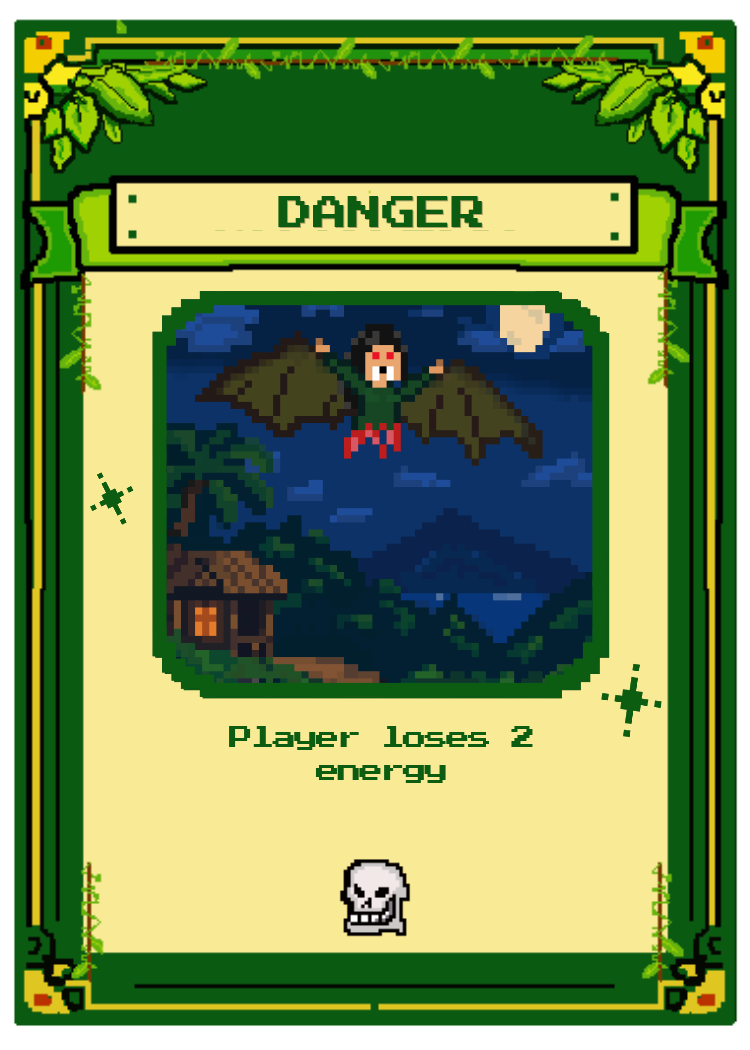
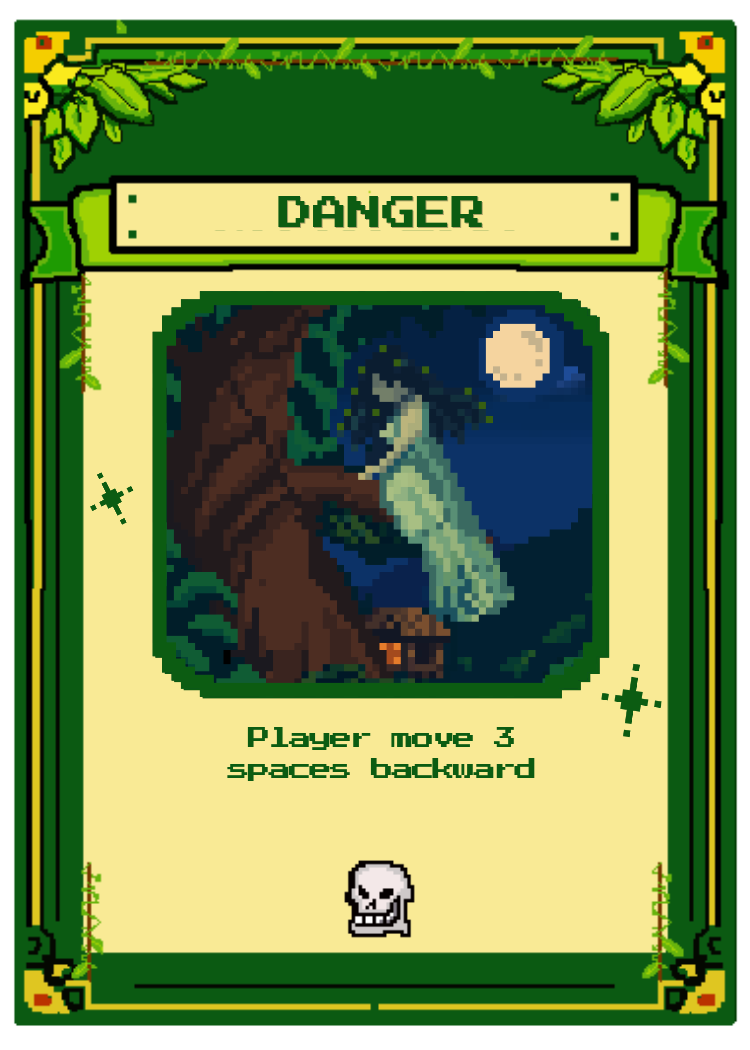
updated card assets to the game

Changed region(s): [[0.2147, 0.2743, 0.7973, 0.7619], [0.46, 0.7924, 0.552, 0.9143]]

diff --git a/panahon-game/src/gameData.js b/panahon-game/src/gameData.js
@@ -705,7 +705,7 @@ export const EVENT_CARDS = {
       name: 'Temporal Occurrence!',
       description: 'For the next 2 turns, players draw from any era randomly on Clue, Event, or Danger tiles.',
       era: ERAS.AMERICAN,
-      image: 'assets/Cards/Event Cards/10.png',
+      image: 'assets/Cards/Event Cards/5.png',
       effect: (player, game) => {
         game.activateTemporalOccurrence(2);
         return 'Temporal Disturbance! Drawing from random eras for 2 rounds!';
@@ -766,7 +766,7 @@ export const EVENT_CARDS = {
       name: 'Temporal Occurrence!',
       description: 'For the next 2 turns, players draw from any era randomly on Clue, Event, or Danger tiles.',
       era: ERAS.JAPANESE,
-      image: 'assets/Cards/Event Cards/15.png',
+      image: 'assets/Cards/Event Cards/5.png',
       effect: (player, game) => {
         game.activateTemporalOccurrence(2);
         return 'Temporal Disturbance! Drawing from random eras for 2 rounds!';
@@ -791,7 +791,7 @@ export const EVENT_CARDS = {
       name: 'Anito Guidance',
       description: 'Teleport to any tile within the Myth/Legend timeline.',
       era: ERAS.MYTH,
-      image: 'assets/Cards/Event Cards/16.png',
+      image: 'assets/Cards/Event Cards/17.png',
       effect: (player, game) => {
         game.offerTeleport(player, ERAS.MYTH);
         return 'Teleport to any tile in the Myth/Legend timeline!';
@@ -802,7 +802,7 @@ export const EVENT_CARDS = {
       name: 'Enchanted Healing Spring',
       description: 'Restores 3 energy to all players in this timeline.',
       era: ERAS.MYTH,
-      image: 'assets/Cards/Event Cards/16.png',
+      image: 'assets/Cards/Event Cards/18.png',
       effect: (player, game) => {
         game.healAllInEra(ERAS.MYTH, 3);
         return 'All players in Myth era restored 3 Energy!';
@@ -813,7 +813,7 @@ export const EVENT_CARDS = {
       name: 'Ancient Relic Harmony',
       description: 'Decreases the Timeline Meter by 1.',
       era: ERAS.MYTH,
-      image: 'assets/Cards/Event Cards/16.png',
+      image: 'assets/Cards/Event Cards/19.png',
       effect: (player, game) => {
         game.modifyTimelineMeter(-1);
         return 'Timeline Meter decreased by 1!';
@@ -824,7 +824,7 @@ export const EVENT_CARDS = {
       name: 'Temporal Occurrence!',
       description: 'For the next 2 turns, players draw from any era randomly on Clue, Event, or Danger tiles.',
       era: ERAS.MYTH,
-      image: 'assets/Cards/Event Cards/16.png',
+      image: 'assets/Cards/Event Cards/5.png',
       effect: (player, game) => {
         game.activateTemporalOccurrence(2);
         return 'Temporal Disturbance! Drawing from random eras for 2 rounds!';
